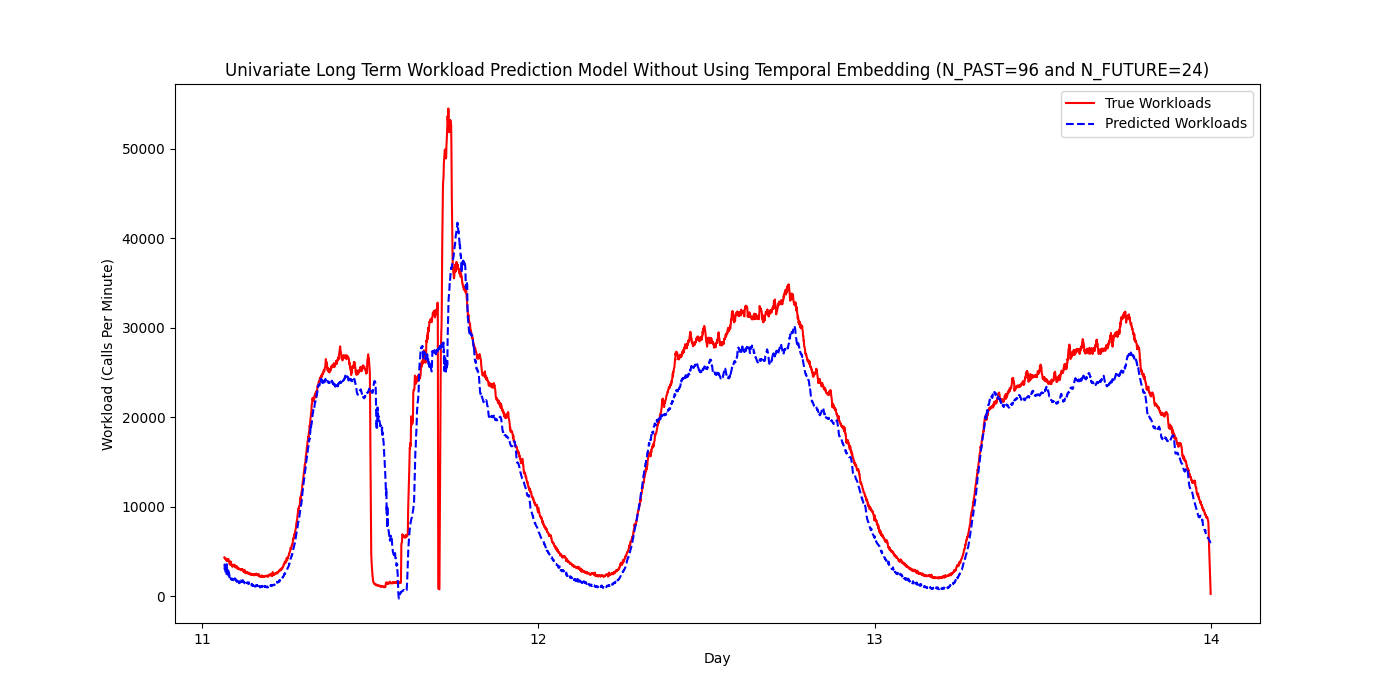
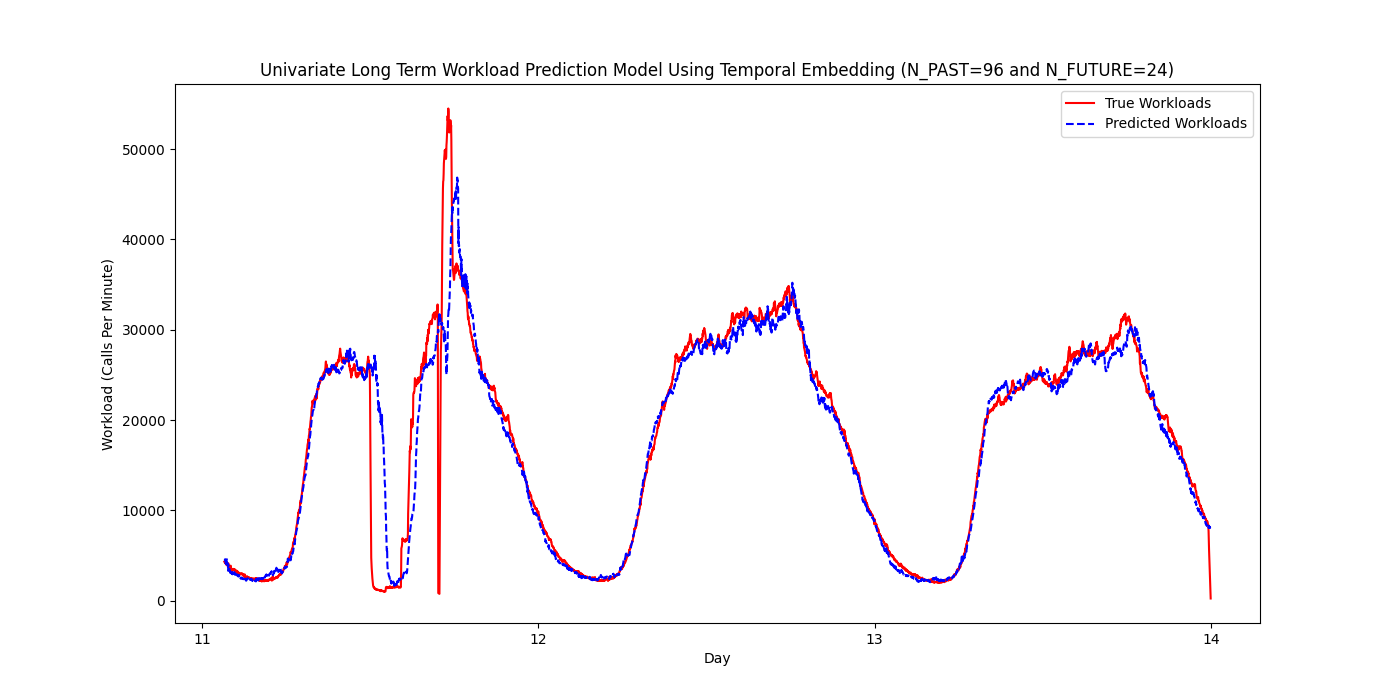
Stripped out plotting functions

diff --git a/src/plot/__init__.py b/src/plot/__init__.py
@@ -1,3 +1,4 @@
+import os
 import matplotlib.pyplot as plt
 import numpy as np
 
@@ -17,3 +18,66 @@ def plot_microservice_workload(microservice, workloads):
 
     plt.xticks(days * minutes_per_day, day_labels)
     plt.show()
+
+
+from src.utils import get_test_workloads, get_target_microservice_id
+
+
+def get_pred_and_true_workloads(filepath, take_first=True):
+    test_workloads = get_test_workloads()
+    target_microservice_id = get_target_microservice_id()
+    preds = np.load(filepath)
+    pred_len = preds.shape[0] + preds.shape[1] - 1
+    selected_test_workloads = test_workloads[-pred_len:]
+
+    pred_workloads = np.zeros((pred_len,), dtype=np.float32)
+
+    for idx in range(preds.shape[0]):
+        pred_group = preds[idx, :, :]
+        n_future = pred_group.shape[0]
+        pred_n_nodes = pred_group.shape[1]
+
+        node_id = 0 if pred_n_nodes == 1 else target_microservice_id
+
+        if take_first:
+            if idx < preds.shape[0] - 1:
+                pred_workloads[idx] = pred_group[0, node_id]
+            else:
+                pred_workloads[idx:idx + n_future] = pred_group[:, node_id]
+        else:
+            if idx == 0:
+                pred_workloads[idx:idx + n_future] = pred_group[:, node_id]
+            else:
+                pred_workloads[idx + n_future - 1] = pred_group[-1, node_id]
+
+    return pred_workloads, selected_test_workloads
+
+
+def plot_pred_and_true_workloads(filepath, title, save_filepath, take_first=True):
+    pred_workloads, true_workloads = get_pred_and_true_workloads(filepath, take_first)
+
+    train_days = int(os.getenv('WORKLOAD_PREDICTION_TRAINING_DAYS'))
+    valid_days = int(os.getenv('WORKLOAD_PREDICTION_VALIDATION_DAYS'))
+    test_days = int(os.getenv('WORKLOAD_PREDICTION_TEST_DAYS'))
+
+    test_workloads = get_test_workloads()
+    start_idx, end_idx = len(test_workloads) - len(pred_workloads), len(test_workloads)
+
+    x_values = np.arange(0, len(test_workloads))
+    x_plot = x_values[start_idx:end_idx]
+
+    minutes_per_day = 1440
+    days = np.arange(0, test_days + 1)
+    day_labels = [str(day + train_days + valid_days) for day in days]
+
+    plt.figure(figsize=(14, 7))
+
+    plt.plot(x_plot, true_workloads, label='True Workloads', color='red')
+    plt.plot(x_plot, pred_workloads, label='Predicted Workloads', color='blue', linestyle='--')
+
+    plt.xlabel('Day')
+    plt.ylabel('Workload (Calls Per Minute)')
+    plt.xticks(days * minutes_per_day, day_labels)
+    plt.title(title)
+    plt.legend()
+    plt.savefig(save_filepath)
